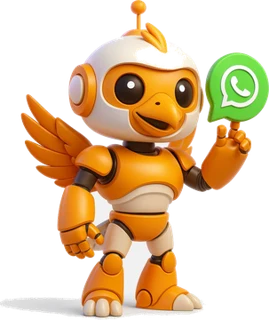
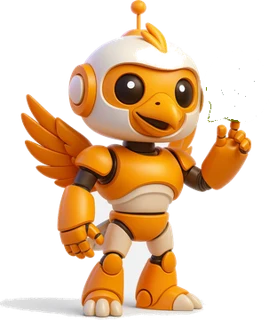
Add files via upload

Changed region(s): [[0.7435, 0.1562, 1.0, 0.4062]]

diff --git a/index.html b/index.html
@@ -31,7 +31,7 @@
     --grad:linear-gradient(100deg,#FF8A2B,#F2761E 40%,#E8431C);
     --grad-soft:linear-gradient(120deg,rgba(255,138,43,.16),rgba(232,67,28,.05));
     --r-lg:24px; --r-md:18px;
-    --e-out:cubic-bezier(.2,.8,.2,1); --e-fly:cubic-bezier(.45,.05,.2,1.1);
+    --e-out:cubic-bezier(.2,.8,.2,1);
   }
   *{box-sizing:border-box;margin:0;padding:0}
   html{scroll-behavior:smooth}
@@ -196,8 +196,9 @@
   .eco-card .btn{align-self:flex-start;margin-top:auto}
   .eco-bot{background:linear-gradient(150deg,rgba(37,211,102,.09),rgba(242,118,30,.06));border-color:rgba(37,211,102,.25)}
   .eco-bot:hover{border-color:rgba(37,211,102,.5)}
-  .eco-mascota{position:absolute;right:-14px;bottom:-16px;width:190px;filter:drop-shadow(0 18px 34px rgba(0,0,0,.5));transform:rotate(-3deg);transition:.5s var(--e-out);pointer-events:none}
-  .eco-card:hover .eco-mascota{transform:rotate(0) translateY(-8px) scale(1.04)}
+  .eco-bot{padding-right:158px}
+  .eco-mascota{position:absolute;right:16px;bottom:0;width:132px;filter:drop-shadow(0 14px 26px rgba(0,0,0,.5));transition:.5s var(--e-out);pointer-events:none}
+  .eco-card:hover .eco-mascota{transform:translateY(-6px) scale(1.03)}
   .eco-lista{list-style:none;display:grid;gap:10px;margin:6px 0}
   .eco-lista li{display:flex;gap:10px;align-items:flex-start;color:var(--muted);font-size:.95rem}
   .eco-lista li::before{content:"→";color:var(--amber);font-weight:700}
@@ -227,14 +228,6 @@
   .mv:hover{border-color:rgba(242,118,30,.35);transform:translateY(-4px)}
   .mv h3{font-size:1.6rem;margin:12px 0}
   .mv p{color:var(--muted)}
-  .meta{grid-column:1/-1;display:grid;grid-template-columns:auto 1fr auto;gap:36px;align-items:center;background:var(--grad-soft);border:1px solid rgba(242,118,30,.3);border-radius:22px;padding:36px}
-  .meta .y{font-family:'Syne',sans-serif;font-weight:800;font-size:5rem;line-height:.85;background:var(--grad);-webkit-background-clip:text;background-clip:text;color:transparent}
-  .meta h3{color:#fff;margin:0 0 6px}
-  .meta p{color:var(--muted)}
-  .meta-kpis{display:flex;gap:22px}
-  .meta-kpis div{text-align:center}
-  .meta-kpis b{display:block;font-family:'Syne',sans-serif;font-size:1.6rem;color:var(--amber)}
-  .meta-kpis span{font-size:.75rem;color:var(--dim);letter-spacing:1px;text-transform:uppercase;font-family:'JetBrains Mono',monospace}
   .lema{grid-column:1/-1;text-align:center;font-family:'Syne',sans-serif;font-weight:800;font-size:clamp(1.6rem,4vw,2.6rem);letter-spacing:-1px;padding:14px 0}
   .valores{display:flex;flex-wrap:wrap;gap:11px;margin-top:30px}
   .valores span{border:1px solid var(--panel-line);border-radius:50px;padding:11px 22px;font-size:.85rem;color:var(--paper);transition:.25s;cursor:default}
@@ -304,23 +297,67 @@
   .subir.visible{opacity:1;visibility:visible;transform:none}
   .subir:hover{border-color:var(--amber);box-shadow:0 0 14px rgba(255,138,43,.4)}
 
-  /* ===== GUÍA ÁGUILA (mascota en 4 esquinas) ===== */
-  #guia{position:fixed;left:0;top:0;z-index:1000;width:118px;transform:translate3d(-200px,-200px,0);transition:transform 1.7s var(--e-fly);pointer-events:none}
+  /* ===== GUÍA ÁGUILA (mascota en 4 esquinas · aparición digital) ===== */
+  #guia{position:fixed;left:0;top:0;z-index:1000;width:100px;transform:translate3d(-200px,-200px,0);pointer-events:none}
   #guia.listo{pointer-events:auto}
-  .guia-bot{position:relative;width:118px;cursor:pointer;-webkit-tap-highlight-color:transparent}
-  .guia-bot img{width:100%;height:auto;filter:drop-shadow(0 14px 26px rgba(0,0,0,.55)) drop-shadow(0 0 18px rgba(255,138,43,.22));transition:transform .5s var(--e-out)}
-  #guia.mira-der .guia-bot img{transform:scaleX(-1)}
-  #guia.volando .guia-bot img{animation:aleteo .5s ease-in-out infinite}
-  #guia.mira-der.volando .guia-bot img{animation:aleteoR .5s ease-in-out infinite}
-  @keyframes aleteo{0%,100%{transform:translateY(0) rotate(-5deg)}50%{transform:translateY(-14px) rotate(4deg)}}
-  @keyframes aleteoR{0%,100%{transform:scaleX(-1) translateY(0) rotate(5deg)}50%{transform:scaleX(-1) translateY(-14px) rotate(-4deg)}}
-  #guia:not(.volando) .guia-bot img{animation:idle-bot 3.4s ease-in-out infinite}
-  #guia.mira-der:not(.volando) .guia-bot img{animation:idle-botR 3.4s ease-in-out infinite}
+  .guia-bot{position:relative;width:100px;cursor:pointer;-webkit-tap-highlight-color:transparent}
+  .guia-bot img{width:100%;height:auto;filter:drop-shadow(0 14px 26px rgba(0,0,0,.55)) drop-shadow(0 0 18px rgba(255,138,43,.22))}
+  /* la mascota mira hacia el centro de la página: en las esquinas derechas se espeja */
+  #guia.mira-izq .guia-bot img{transform:scaleX(-1)}
+  #guia:not(.aparece):not(.desaparece) .guia-bot img{animation:idle-bot 3.4s ease-in-out infinite}
+  #guia.mira-izq:not(.aparece):not(.desaparece) .guia-bot img{animation:idle-botR 3.4s ease-in-out infinite}
   @keyframes idle-bot{50%{transform:translateY(-7px)}}
   @keyframes idle-botR{0%,100%{transform:scaleX(-1)}50%{transform:scaleX(-1) translateY(-7px)}}
   .guia-sombra{width:64%;height:12px;margin:2px auto 0;border-radius:50%;background:radial-gradient(ellipse,rgba(0,0,0,.5),transparent 70%);animation:sombra 3.4s ease-in-out infinite}
   @keyframes sombra{50%{transform:scaleX(.78);opacity:.6}}
-  #guia.volando .guia-sombra{opacity:0}
+  /* --- materialización tipo sistema: glitch + escaneo + aberración cromática --- */
+  #guia.aparece .guia-bot img{animation:materializa .95s steps(1,end) forwards}
+  #guia.mira-izq.aparece .guia-bot img{animation:materializaR .95s steps(1,end) forwards}
+  @keyframes materializa{
+    0%{opacity:0;clip-path:inset(0 0 100% 0);filter:brightness(3) saturate(0) drop-shadow(-4px 0 0 #0ff) drop-shadow(4px 0 0 #f0f)}
+    12%{opacity:1;clip-path:inset(0 0 62% 0)}
+    22%{opacity:.25;clip-path:inset(18% 0 34% 0)}
+    32%{opacity:1;clip-path:inset(0 0 28% 0);filter:brightness(2) drop-shadow(-3px 0 0 #0ff) drop-shadow(3px 0 0 #f0f)}
+    44%{opacity:.55;clip-path:inset(40% 0 8% 0);transform:translateX(3px)}
+    56%{opacity:1;clip-path:inset(0 0 6% 0);transform:translateX(-2px)}
+    68%{opacity:.8;clip-path:inset(6% 0 0 0);filter:brightness(1.5) drop-shadow(-1px 0 0 #0ff) drop-shadow(1px 0 0 #f0f)}
+    80%{opacity:1;clip-path:inset(0);transform:none}
+    88%{opacity:.9;filter:brightness(1.2)}
+    100%{opacity:1;clip-path:inset(0);filter:drop-shadow(0 14px 26px rgba(0,0,0,.55)) drop-shadow(0 0 18px rgba(255,138,43,.22))}
+  }
+  @keyframes materializaR{
+    0%{opacity:0;clip-path:inset(0 0 100% 0);filter:brightness(3) saturate(0) drop-shadow(-4px 0 0 #0ff) drop-shadow(4px 0 0 #f0f);transform:scaleX(-1)}
+    12%{opacity:1;clip-path:inset(0 0 62% 0);transform:scaleX(-1)}
+    22%{opacity:.25;clip-path:inset(18% 0 34% 0);transform:scaleX(-1)}
+    32%{opacity:1;clip-path:inset(0 0 28% 0);filter:brightness(2) drop-shadow(-3px 0 0 #0ff) drop-shadow(3px 0 0 #f0f);transform:scaleX(-1)}
+    44%{opacity:.55;clip-path:inset(40% 0 8% 0);transform:scaleX(-1) translateX(3px)}
+    56%{opacity:1;clip-path:inset(0 0 6% 0);transform:scaleX(-1) translateX(-2px)}
+    68%{opacity:.8;clip-path:inset(6% 0 0 0);filter:brightness(1.5) drop-shadow(-1px 0 0 #0ff) drop-shadow(1px 0 0 #f0f);transform:scaleX(-1)}
+    80%{opacity:1;clip-path:inset(0);transform:scaleX(-1)}
+    88%{opacity:.9;filter:brightness(1.2);transform:scaleX(-1)}
+    100%{opacity:1;clip-path:inset(0);transform:scaleX(-1);filter:drop-shadow(0 14px 26px rgba(0,0,0,.55)) drop-shadow(0 0 18px rgba(255,138,43,.22))}
+  }
+  #guia.desaparece .guia-bot img{animation:desmaterializa .32s steps(1,end) forwards}
+  #guia.mira-izq.desaparece .guia-bot img{animation:desmaterializaR .32s steps(1,end) forwards}
+  @keyframes desmaterializa{
+    0%{opacity:1;clip-path:inset(0)}
+    30%{opacity:.7;clip-path:inset(30% 0 20% 0);filter:brightness(2) drop-shadow(-3px 0 0 #0ff) drop-shadow(3px 0 0 #f0f)}
+    60%{opacity:.4;clip-path:inset(10% 0 60% 0);transform:translateX(-3px)}
+    100%{opacity:0;clip-path:inset(0 0 100% 0)}
+  }
+  @keyframes desmaterializaR{
+    0%{opacity:1;clip-path:inset(0);transform:scaleX(-1)}
+    30%{opacity:.7;clip-path:inset(30% 0 20% 0);filter:brightness(2) drop-shadow(-3px 0 0 #0ff) drop-shadow(3px 0 0 #f0f);transform:scaleX(-1)}
+    60%{opacity:.4;clip-path:inset(10% 0 60% 0);transform:scaleX(-1) translateX(-3px)}
+    100%{opacity:0;clip-path:inset(0 0 100% 0);transform:scaleX(-1)}
+  }
+  /* línea de escaneo que recorre a la mascota al materializarse */
+  .guia-bot::after{content:"";position:absolute;left:6%;right:6%;top:0;height:2px;border-radius:2px;
+    background:linear-gradient(90deg,transparent,rgba(0,255,240,.9),rgba(255,138,43,.9),transparent);
+    box-shadow:0 0 12px rgba(0,255,240,.6);opacity:0;pointer-events:none}
+  #guia.aparece .guia-bot::after{animation:escaneo .95s linear forwards}
+  @keyframes escaneo{0%{opacity:1;top:0}85%{opacity:1;top:96%}100%{opacity:0;top:100%}}
+  #guia.aparece .guia-sombra,#guia.desaparece .guia-sombra{opacity:0}
 
   .guia-burbuja{position:absolute;width:264px;background:rgba(17,19,25,.94);border:1px solid rgba(242,118,30,.45);border-radius:18px;padding:16px 16px 14px;
     backdrop-filter:blur(14px);box-shadow:0 18px 44px rgba(0,0,0,.55),0 0 22px rgba(255,138,43,.12);
@@ -336,7 +373,7 @@
   .guia-cta:hover{background:var(--grad);color:#120a04;border-color:transparent}
   .guia-barra{height:2px;border-radius:2px;background:rgba(255,255,255,.08);margin-top:12px;overflow:hidden}
   .guia-barra i{display:block;height:100%;width:100%;background:var(--grad);transform-origin:0 50%;transform:scaleX(0)}
-  #guia.hablando:not(.pausado) .guia-barra i{animation:tip-t var(--tip-dur,6s) linear forwards}
+  #guia.hablando:not(.pausado):not(.aparece) .guia-barra i{animation:tip-t var(--tip-dur,6s) linear forwards}
   @keyframes tip-t{from{transform:scaleX(0)}to{transform:scaleX(1)}}
   .guia-ctrl{position:absolute;display:flex;gap:6px;opacity:0;transition:.3s}
   #guia:hover .guia-ctrl,#guia:focus-within .guia-ctrl{opacity:1}
@@ -344,8 +381,8 @@
   .guia-ctrl button:hover{border-color:var(--amber);color:var(--amber)}
   #guia.pausado .guia-play{color:var(--amber);border-color:var(--amber)}
   /* burbuja según esquina */
-  #guia[data-c="br"] .guia-burbuja,#guia[data-c="tr"] .guia-burbuja{right:126px;--crx:-8px;--cx:auto;--ori:right center;--clip:polygon(0 0,100% 0,100% 100%)}
-  #guia[data-c="bl"] .guia-burbuja,#guia[data-c="tl"] .guia-burbuja{left:126px;--cx:-8px;--crx:auto;--ori:left center;--clip:polygon(0 0,0 100%,100% 100%)}
+  #guia[data-c="br"] .guia-burbuja,#guia[data-c="tr"] .guia-burbuja{right:108px;--crx:-8px;--cx:auto;--ori:right center;--clip:polygon(0 0,100% 0,100% 100%)}
+  #guia[data-c="bl"] .guia-burbuja,#guia[data-c="tl"] .guia-burbuja{left:108px;--cx:-8px;--crx:auto;--ori:left center;--clip:polygon(0 0,0 100%,100% 100%)}
   #guia[data-c="br"] .guia-burbuja,#guia[data-c="bl"] .guia-burbuja{bottom:6px;--cy:auto}
   #guia[data-c="br"] .guia-burbuja::before,#guia[data-c="bl"] .guia-burbuja::before{top:auto;bottom:26px}
   #guia[data-c="tr"] .guia-burbuja,#guia[data-c="tl"] .guia-burbuja{top:6px}
@@ -380,9 +417,8 @@
     .marca-anclas{grid-template-columns:1fr}
     .logo-wall{grid-template-columns:repeat(3,1fr)}
     .eco-grid,.mv-grid,.cotiza-grid,.ubica-grid{grid-template-columns:1fr}
-    .eco-mascota{width:150px}
-    .meta{grid-template-columns:1fr;text-align:center}.meta .y{font-size:3.6rem}
-    .meta-kpis{justify-content:center}
+    .eco-bot{padding-right:24px;padding-bottom:120px}
+    .eco-mascota{width:104px;right:12px}
     .foot-grid{grid-template-columns:1fr 1fr;gap:28px}
     .cotiza-grid{gap:30px}
   }
@@ -402,15 +438,13 @@
     .stat{padding:22px 18px}.stat .n{font-size:2.4rem}
     .marquee .track{gap:34px}.marquee span{font-size:.92rem;gap:34px}
     .foot-grid{grid-template-columns:1fr}
-    .meta{padding:26px}.meta .y{font-size:3rem}
-    .meta-kpis{flex-wrap:wrap;gap:14px}
     .mv,.horario,form,.pcard,.eco-card{padding:24px}
     .valores span{padding:9px 16px;font-size:.8rem}
-    #guia{width:86px}
-    .guia-bot{width:86px}
-    .guia-burbuja{width:min(228px,calc(100vw - 118px));padding:13px 13px 11px}
-    #guia[data-c="br"] .guia-burbuja,#guia[data-c="tr"] .guia-burbuja{right:94px}
-    #guia[data-c="bl"] .guia-burbuja,#guia[data-c="tl"] .guia-burbuja{left:94px}
+    #guia{width:73px}
+    .guia-bot{width:73px}
+    .guia-burbuja{width:min(228px,calc(100vw - 104px));padding:13px 13px 11px}
+    #guia[data-c="br"] .guia-burbuja,#guia[data-c="tr"] .guia-burbuja{right:81px}
+    #guia[data-c="bl"] .guia-burbuja,#guia[data-c="tl"] .guia-burbuja{left:81px}
     .subir{right:20px;bottom:92px;width:44px;height:44px}
     .guia-reabrir{left:16px;bottom:16px;font-size:.76rem}
   }
@@ -425,7 +459,6 @@
   @media(prefers-reduced-motion:reduce){
     *,*::before,*::after{animation-duration:.001ms!important;animation-iteration-count:1!important;transition-duration:.001ms!important;scroll-behavior:auto!important}
     .reveal{opacity:1!important;transform:none!important}
-    #guia{transition:none}
   }
 </style>
 </head>
@@ -599,15 +632,6 @@
       <div class="lema reveal grad-text">“La superación es nuestro trabajo diario.”</div>
       <div class="mv reveal"><span class="mono">Misión</span><h3>A dónde apuntamos</h3><p>Consolidarnos como una empresa de mayoreo líder en el sector ferretero, eléctrico, refaccionario, tornillero, agrícola, pinturas y complementos; satisfaciendo las necesidades de nuestros clientes mediante productos de óptima calidad, respaldados por un servicio eficiente, confiable y profesional.</p></div>
       <div class="mv reveal"><span class="mono">Visión</span><h3>Cómo nos vemos</h3><p>Ser una empresa confiable y líder a nivel regional en la comercialización de nuestros productos, ofreciendo un amplio surtido, disponibilidad inmediata, calidad y un enfoque permanente en la mejora continua.</p></div>
-      <div class="meta reveal">
-        <div class="y">2030</div>
-        <div><span class="mono">Meta</span><h3>Un grupo empresarial sólido</h3><p>Un corporativo y tres tiendas especializadas, impulsados por la mejora continua.</p></div>
-        <div class="meta-kpis">
-          <div><b data-cont="150">0</b><span>Colaboradores</span></div>
-          <div><b data-cont="250" data-pre="$" data-suf="M">0</b><span>Ventas anuales</span></div>
-          <div><b data-cont="3">0</b><span>Tiendas</span></div>
-        </div>
-      </div>
     </div>
     <div class="valores reveal">
       <span>Trabajo en equipo</span><span>Respeto y empatía</span><span>Servicio y calidad</span><span>Honestidad</span><span>Responsabilidad y compromiso</span><span>Mejora continua</span>
@@ -868,7 +892,7 @@ window.enviarWA = function(e){
       btnPlay = document.getElementById('guia-play'), btnCerrar = document.getElementById('guia-cerrar'),
       btnReabrir = document.getElementById('guia-reabrir'), bot = document.getElementById('guia-bot');
 
-  var TIP_MS = 6000, VUELO_MS = 1700;
+  var TIP_MS = 6000, APARECE_MS = 950, DESAPARECE_MS = 320;
 
   var TIPS = [
     {k:'Bot 24/7',      t:'Bot Águila, siempre despierto',   p:'Pregúntale productos, precios y disponibilidad por WhatsApp al [phone redacted], a cualquier hora.', a:['Chatear con el Bot','https://wa.me/[phone redacted]?text=Hola%2C%20quiero%20usar%20el%20Bot%20%C3%81guila.']},
@@ -893,20 +917,19 @@ window.enviarWA = function(e){
   var iTip = -1, iEsq = 0, timer = null, pausado = false, sobre = false, cerrado = false, oculta = document.hidden;
 
   function coords(c){
-    var W = guia.offsetWidth || 118, H = guia.offsetHeight || 150;
+    var W = guia.offsetWidth || 100, H = guia.offsetHeight || 150;
     var mX = 20, mTop = 88, mBot = 20;
     var brBot = 96; /* deja libre el botón de WhatsApp */
     var x = (c === 'br' || c === 'tr') ? innerWidth - W - mX : mX;
     var y = (c === 'tl' || c === 'tr') ? mTop : innerHeight - H - (c === 'br' ? brBot : mBot);
     return [Math.round(x), Math.round(y)];
   }
-  function coloca(c, instantaneo){
+  function coloca(c){
     var xy = coords(c);
-    if(instantaneo) guia.style.transition = 'none';
     guia.style.transform = 'translate3d(' + xy[0] + 'px,' + xy[1] + 'px,0)';
-    if(instantaneo){ void guia.offsetWidth; guia.style.transition = ''; }
     guia.dataset.c = c;
-    guia.classList.toggle('mira-der', c === 'bl' || c === 'tl');
+    /* la mascota original mira a la derecha: en esquinas derechas se espeja para ver al centro */
+    guia.classList.toggle('mira-izq', c === 'br' || c === 'tr');
   }
   function muestraTip(n){
     var tip = TIPS[n];
@@ -920,32 +943,40 @@ window.enviarWA = function(e){
     } else { elA.hidden = true; }
     guia.style.setProperty('--tip-dur', TIP_MS + 'ms');
     guia.classList.add('hablando');
-    /* reinicia la barra de tiempo */
     var barra = guia.querySelector('.guia-barra i');
     barra.style.animation = 'none'; void barra.offsetWidth; barra.style.animation = '';
   }
-  function siguiente(volar){
+  var enTransito = false;
+  function siguiente(){
+    if(enTransito) return;
     iTip = (iTip + 1) % TIPS.length;
-    if(volar === false || reduceMotion){
-      coloca(ESQUINAS[iEsq], reduceMotion);
-      iEsq = (iEsq + 1) % ESQUINAS.length;
+    var esq = ESQUINAS[iEsq];
+    iEsq = (iEsq + 1) % ESQUINAS.length;
+    if(reduceMotion){
+      guia.classList.remove('hablando');
+      coloca(esq);
       muestraTip(iTip);
       return;
     }
+    enTransito = true;
     guia.classList.remove('hablando');
-    guia.classList.add('volando');
-    coloca(ESQUINAS[iEsq]);
-    iEsq = (iEsq + 1) % ESQUINAS.length;
+    guia.classList.add('desaparece');
     setTimeout(function(){
-      guia.classList.remove('volando');
-      muestraTip(iTip);
-    }, VUELO_MS);
+      guia.classList.remove('desaparece');
+      coloca(esq); /* teletransporte: reaparece en la nueva esquina */
+      guia.classList.add('aparece');
+      setTimeout(function(){
+        guia.classList.remove('aparece');
+        muestraTip(iTip);
+        enTransito = false;
+      }, APARECE_MS);
+    }, DESAPARECE_MS);
   }
   function arranca(){
     para();
     timer = setInterval(function(){
       if(!pausado && !sobre && !oculta && !cerrado) siguiente();
-    }, TIP_MS + (reduceMotion ? 0 : VUELO_MS));
+    }, TIP_MS + (reduceMotion ? 0 : APARECE_MS + DESAPARECE_MS));
   }
   function para(){ if(timer){ clearInterval(timer); timer = null; } }
 
@@ -970,14 +1001,13 @@ window.enviarWA = function(e){
     cerrado = false;
     guia.style.display = '';
     btnReabrir.classList.remove('visible');
-    coloca(guia.dataset.c, true);
-    siguiente(false); arranca();
+    siguiente(); arranca();
     try{ sessionStorage.removeItem('guiaCerrada'); }catch(e){}
   });
   document.addEventListener('visibilitychange', function(){ oculta = document.hidden; });
-  addEventListener('resize', function(){ if(!cerrado) coloca(guia.dataset.c, true); });
+  addEventListener('resize', function(){ if(!cerrado && !enTransito) coloca(guia.dataset.c); });
 
-  /* arranque: entra volando desde fuera hacia la esquina inferior derecha */
+  /* arranque: se materializa en la esquina inferior derecha */
   var cerradaAntes = false;
   try{ cerradaAntes = sessionStorage.getItem('guiaCerrada') === '1'; }catch(e){}
   if(cerradaAntes){
@@ -985,19 +1015,16 @@ window.enviarWA = function(e){
   } else {
     setTimeout(function(){
       guia.classList.add('listo');
-      if(reduceMotion){ coloca('br', true); iEsq = 1; muestraTip(iTip = 0); arranca(); return; }
-      guia.style.transition = 'none';
-      guia.style.transform = 'translate3d(' + (innerWidth + 140) + 'px,' + Math.round(innerHeight * .35) + 'px,0)';
-      void guia.offsetWidth; guia.style.transition = '';
-      guia.classList.add('volando');
       coloca('br');
       iEsq = 1;
+      if(reduceMotion){ muestraTip(iTip = 0); arranca(); return; }
+      guia.classList.add('aparece');
       setTimeout(function(){
-        guia.classList.remove('volando');
+        guia.classList.remove('aparece');
         muestraTip(iTip = 0);
         arranca();
-      }, VUELO_MS);
-    }, 1600);
+      }, APARECE_MS);
+    }, 1400);
   }
 })();
 

diff --git a/README.md b/README.md
@@ -8,6 +8,14 @@ Esta es una **vista previa (v2)** para validación del cliente. Sitio estático,
 
 ---
 
+## Ajustes v3.1
+
+- La mascota del Bot ya **no trae el globo de WhatsApp en la mano** (imagen editada, `assets/img/mascota-bot.webp` y `mascota-bot-sinwa.png`).
+- La **Guía Águila ya no se desplaza** entre esquinas: se **desmaterializa y rematerializa** con una animación tipo sistema (glitch por franjas, aberración cromática cian/magenta y línea de escaneo).
+- La guía **voltea hacia el centro** de la página según la esquina donde aparece y es **15% más pequeña** (100px / 73px móvil).
+- La mascota de la tarjeta "Bot Águila 24/7" ahora es más pequeña (132px) y ya no invade el texto del bloque.
+- Se eliminó el bloque **Meta 2030**.
+
 ## Novedades v3 (upgrade premium)
 
 - **Guía Águila 🦅** — la mascota del Bot Águila vuela entre las 4 esquinas de la pantalla y da un consejo distinto cada 6 segundos con datos reales de la empresa (Plataforma Águila, Bot 24/7, contactos, ubicación, horario, misión, visión, Meta 2030, valores, líneas, marcas). Con controles de pausa/cierre, memoria de sesión, `aria-live` y soporte de `prefers-reduced-motion`. Asset: `assets/img/mascota-bot.webp` (25 KB, optimizado desde el PNG original).